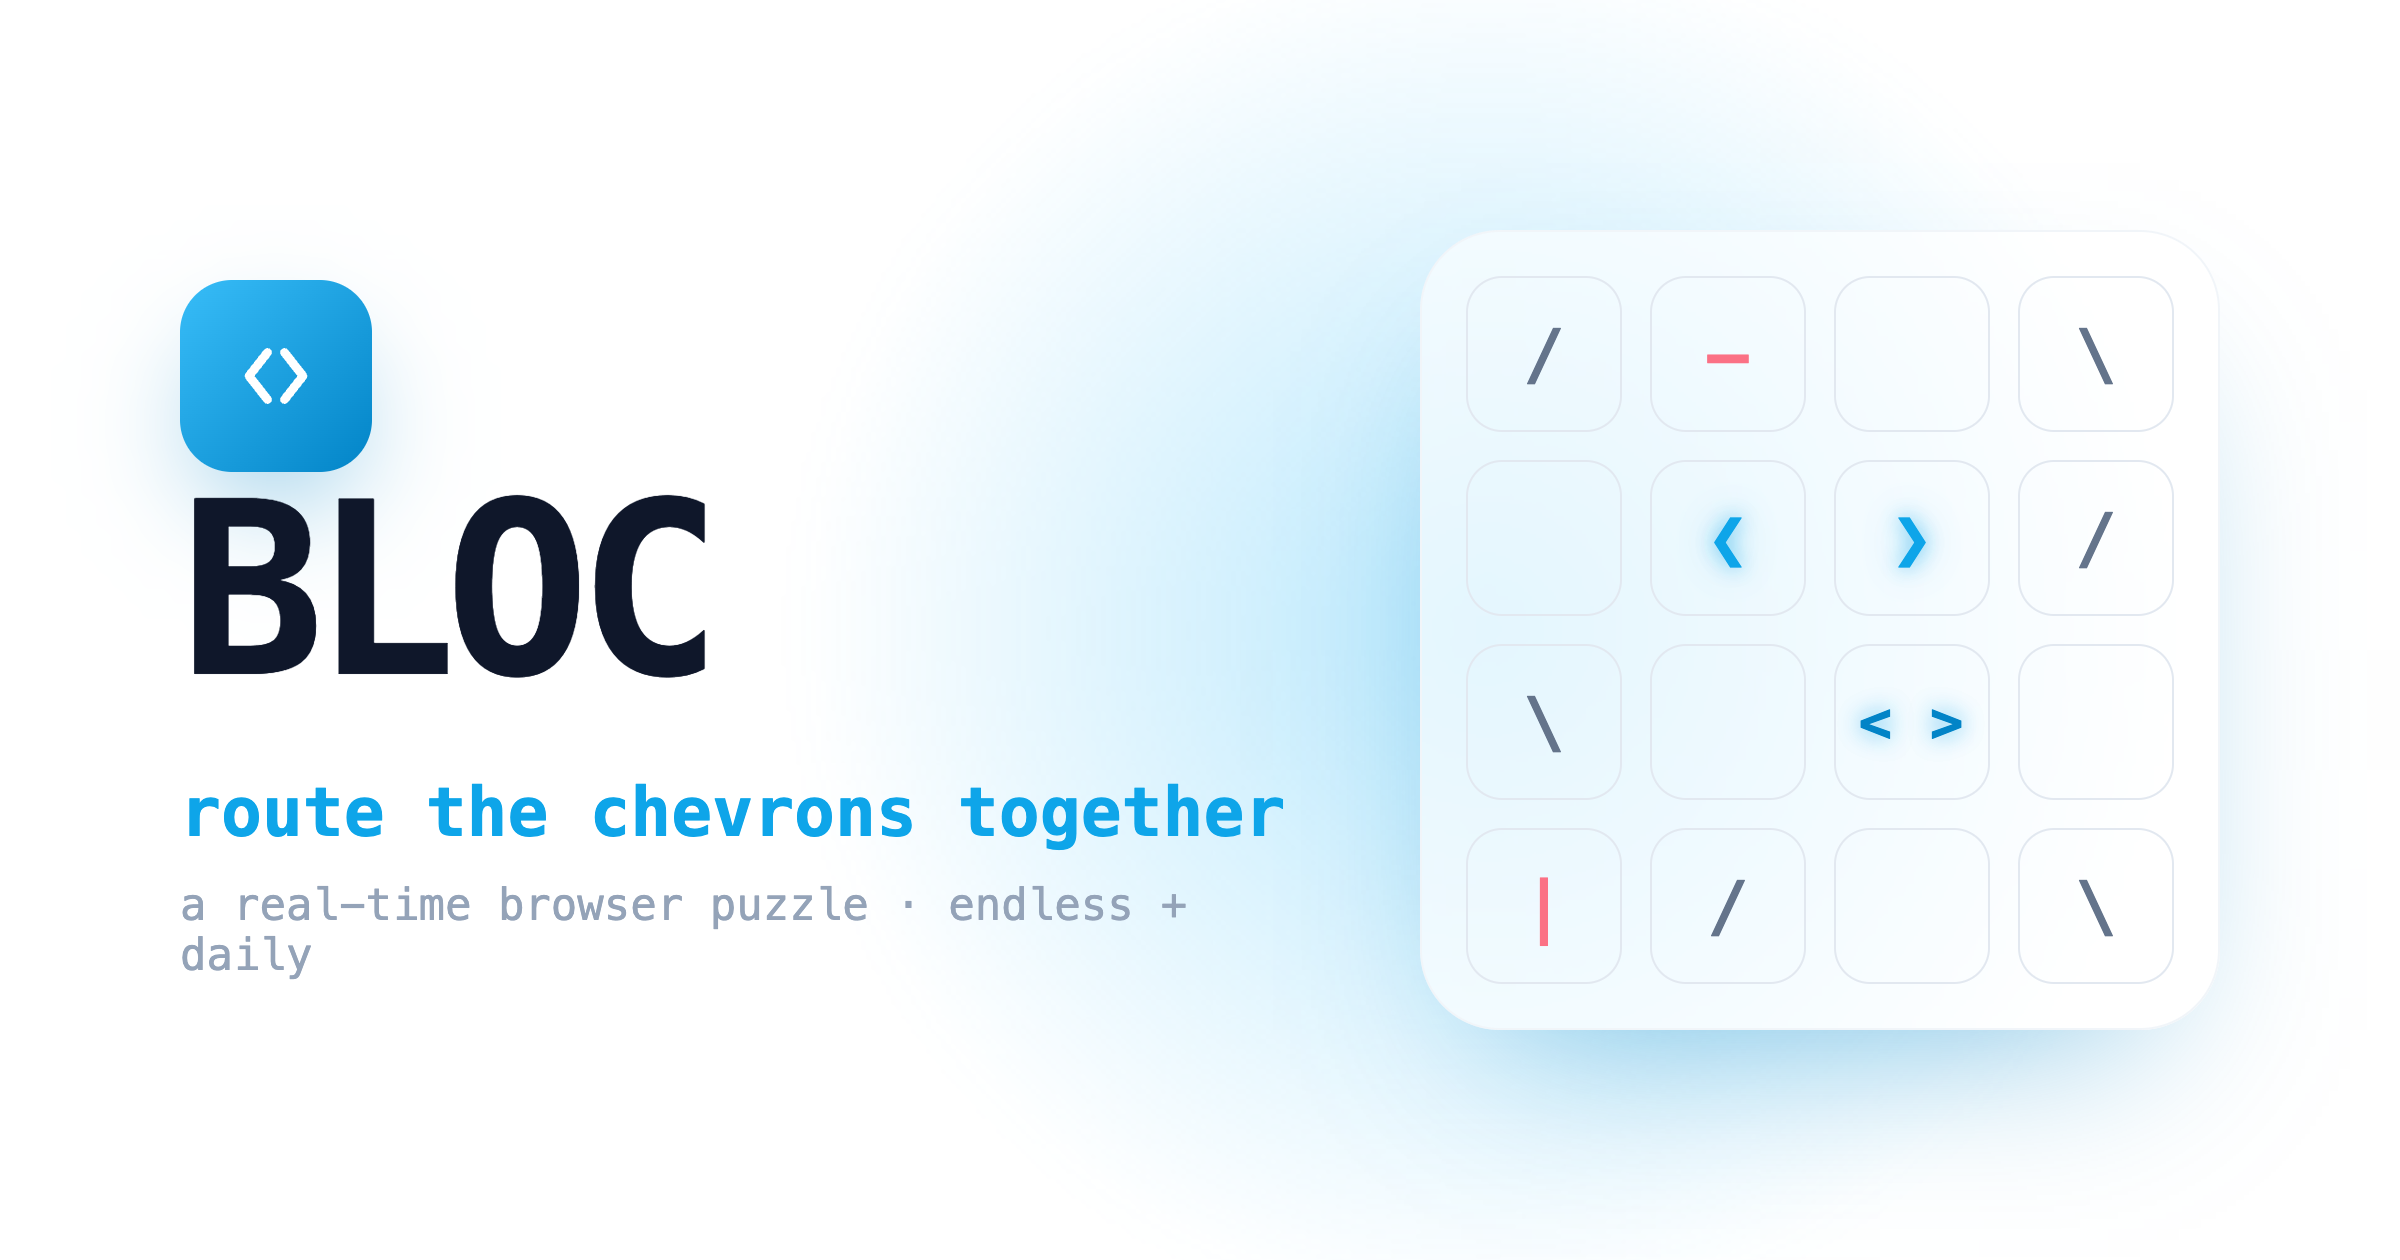
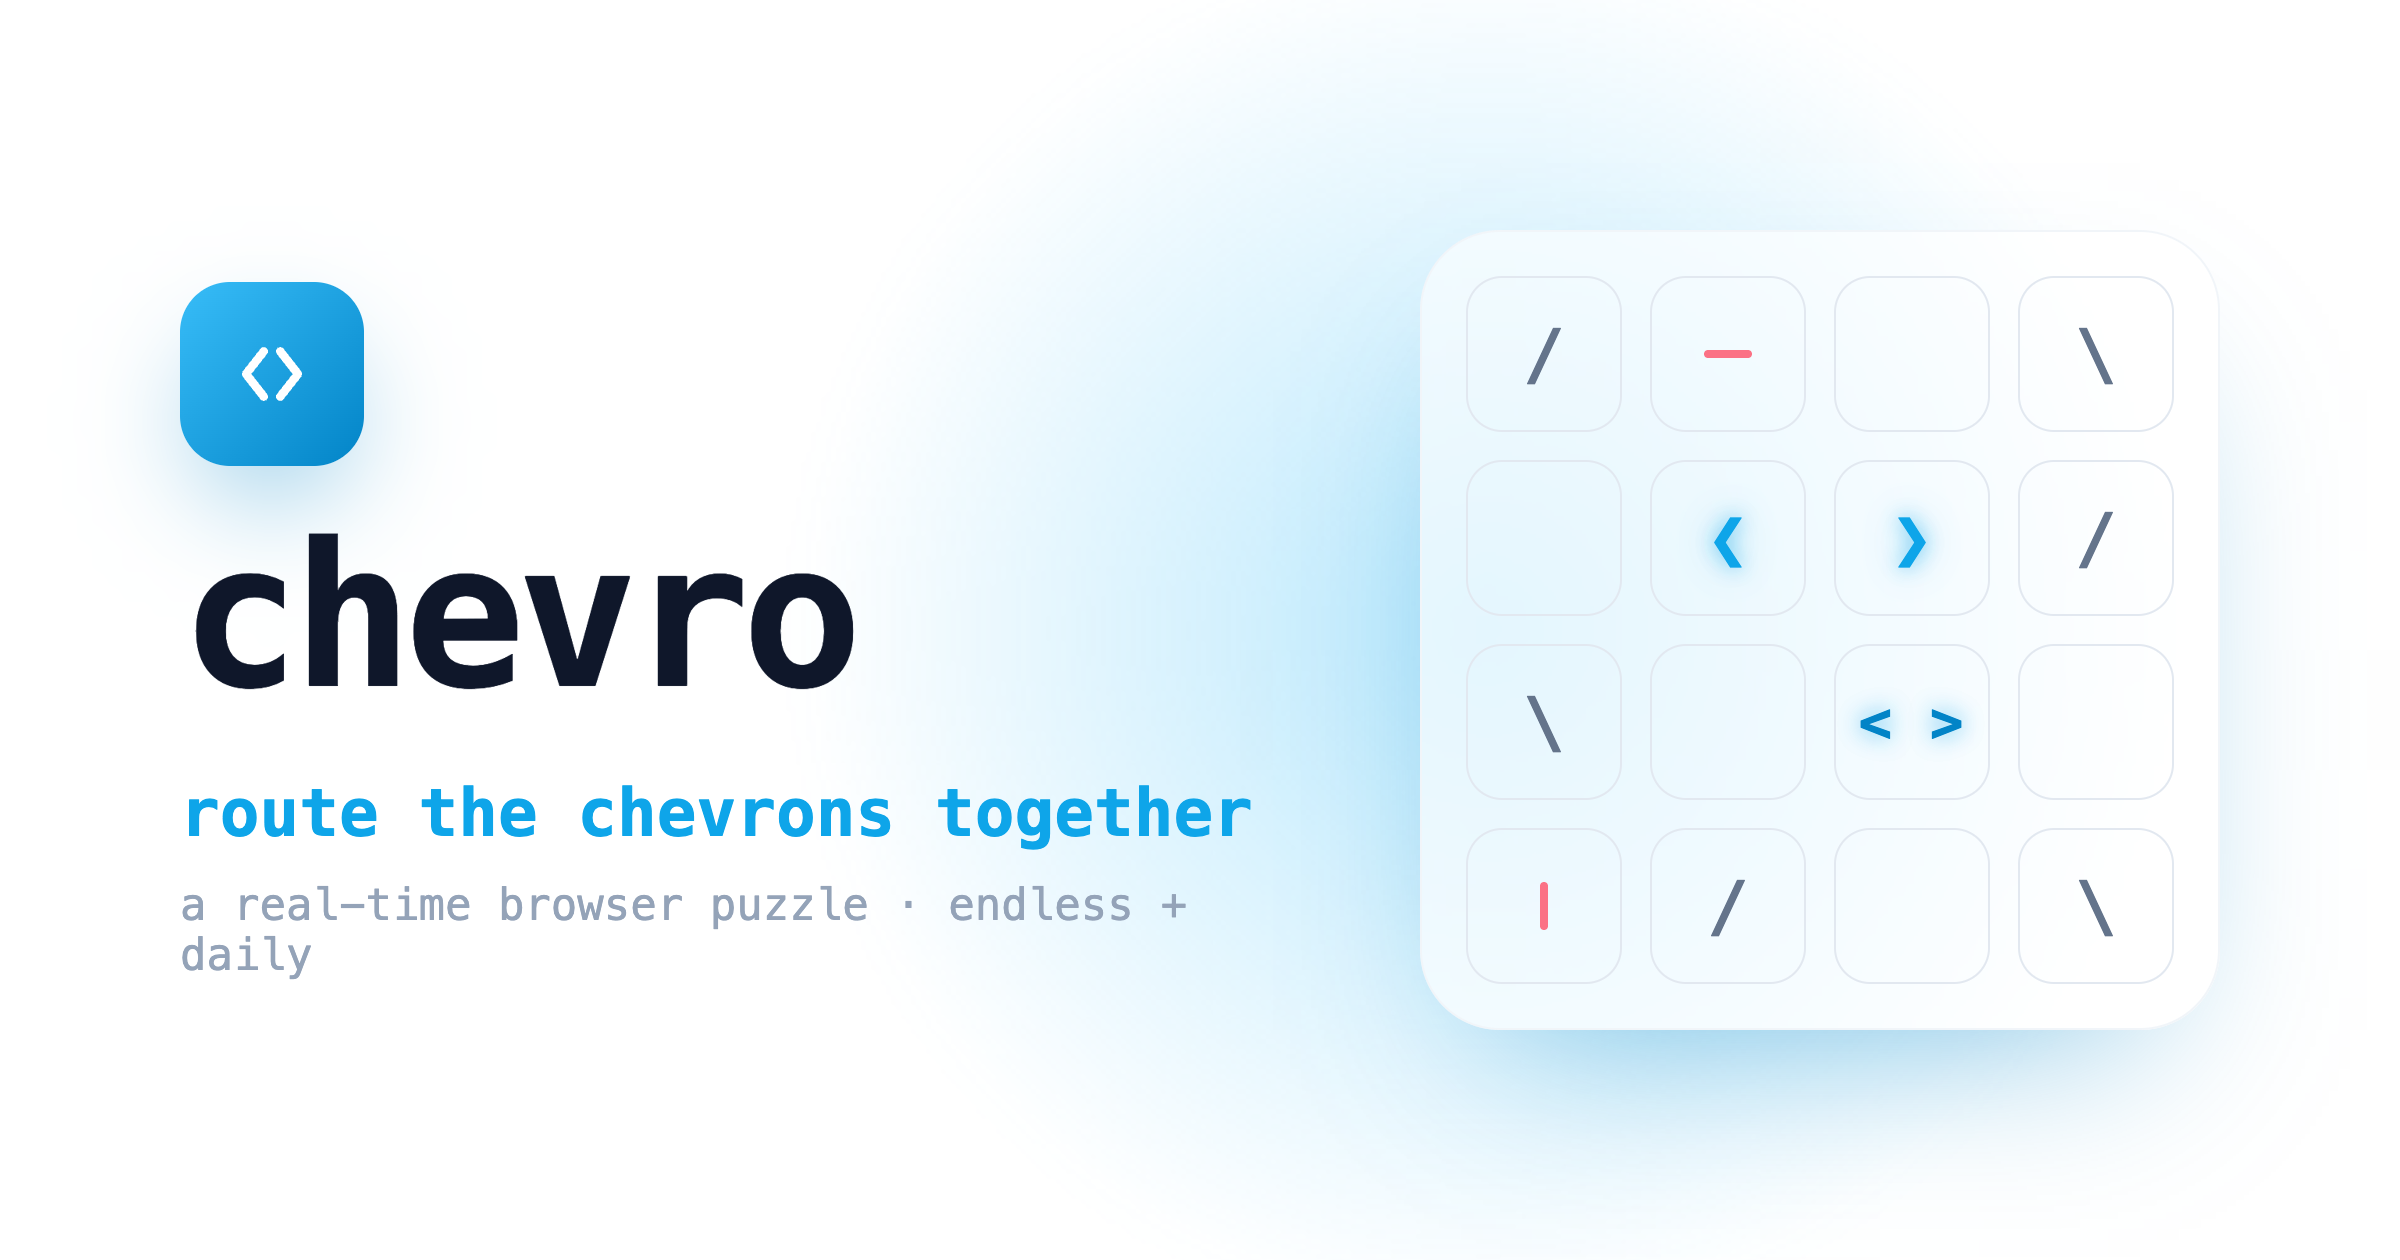
Rebrand to "chevro" and remove em dashes
Rename the game to chevro across the title, meta tags, OG/Twitter cards,
share image, sidebar, and README. Replace all em dashes with plain
punctuation throughout the UI text, metadata, and source comments.

Claude-Session: https://claude.ai/code/session_01GxwatPiUPvHxmAd5K81STC

Changed region(s): [[0.0625, 0.2167, 0.375, 0.5571], [0.0938, 0.619, 0.5312, 0.681]]

diff --git a/src/BlocGame.tsx b/src/BlocGame.tsx
@@ -13,7 +13,7 @@ import {
 import { cn } from "@/lib/utils"
 
 /* ------------------------------------------------------------------ *
- *  BLOC — real-time chevron routing puzzle
+ *  chevro - a real-time chevron routing puzzle
  * ------------------------------------------------------------------ */
 
 type Dir = "UP" | "DOWN" | "LEFT" | "RIGHT"
@@ -80,7 +80,7 @@ const OPPOSITE: Record<Dir, Dir> = {
 }
 const DIR_ANGLE: Record<Dir, number> = { RIGHT: 0, DOWN: 90, LEFT: 180, UP: 270 }
 
-// The chevron entity — one glyph, drawn identically whether it's resting in
+// The chevron entity - one glyph, drawn identically whether it's resting in
 // the emitter or flying. Direction is pure rotation, so it's always the same
 // shape / colour / glow. Left-facing is just the same mark rotated 180°.
 const CHEVRON = "❯" // ❯
@@ -250,7 +250,7 @@ interface WindPuzzle extends Puzzle {
  * Winding-loop generation. The emitter sits at the centre with a straight
  * lead-in either side; a random self-avoiding walk joins the two ends into a
  * single simple loop through the emitter. Grid graphs are bipartite so every
- * such loop has even length — split it at the antipode and the two chevrons
+ * such loop has even length - split it at the antipode and the two chevrons
  * (one each way round the loop) reach that meeting cell on the same tick.
  * Every 90° turn on the loop gets a mirror (correctly oriented here); the
  * caller then scrambles the rotations and scatters decoys off the path.
@@ -415,7 +415,7 @@ function generateFallback(difficulty: number, _seed: number): Puzzle {
 
 /**
  * One tick. A mirror redirects the chevron as it *leaves* the cell it is
- * sitting in — so the player can keep rotating a mirror while the chevron is
+ * sitting in - so the player can keep rotating a mirror while the chevron is
  * inside it, right up until it steps out. Pipes and walls are barriers: the
  * chevron never enters them, it bounces (or is sliced) at the boundary.
  * `angle` accumulates so the arrow can pivot smoothly through turns.
@@ -509,7 +509,7 @@ function save(key: string, value: string) {
   try {
     localStorage.setItem(key, value)
   } catch {
-    /* storage unavailable (private mode, quota) — ignore */
+    /* storage unavailable (private mode, quota) - ignore */
   }
 }
 
@@ -589,7 +589,7 @@ export default function BlocGame() {
   const [grid, setGrid] = useState<Cell[][]>(() => puzzle.grid)
   const [chevrons, setChevrons] = useState<Chevron[]>([])
   const [status, setStatus] = useState<Status>("IDLE")
-  // true only during the final slice of each tick — a block locks just as the
+  // true only during the final slice of each tick - a block locks just as the
   // chevron is about to leave it, so you can rotate it until it's deep inside
   const [committing, setCommitting] = useState(false)
   const [animals, setAnimals] = useState<Animal[]>(() =>
@@ -658,7 +658,7 @@ export default function BlocGame() {
       : null
   }, [mode, levelNo, rebuild])
 
-  /* game loop — emit immediately, then tick */
+  /* game loop - emit immediately, then tick */
   useEffect(() => {
     if (status !== "PLAYING") {
       setCommitting(false)
@@ -823,7 +823,7 @@ export default function BlocGame() {
           </SheetTrigger>
           <SheetContent side="left" className="gap-6">
             <SheetHeader>
-              <SheetTitle className="font-mono tracking-tight">BLOC</SheetTitle>
+              <SheetTitle className="font-mono tracking-tight">chevro</SheetTitle>
               <SheetDescription className="font-mono text-xs">
                 route the chevrons together
               </SheetDescription>
@@ -896,7 +896,7 @@ export default function BlocGame() {
         </button>
       </div>
 
-      {/* board — dissolves on a win so the chevrons fly off into open space */}
+      {/* board - dissolves on a win so the chevrons fly off into open space */}
       <div
         style={{ animation: status === "LOST" ? "bloc-shake 450ms ease-in-out" : "none" }}
         className={cn(
@@ -939,7 +939,7 @@ export default function BlocGame() {
             )}
           </div>
 
-          {/* nuke beams — telegraph glow, then a bright flash on fire */}
+          {/* nuke beams - telegraph glow, then a bright flash on fire */}
           {(status === "PLAYING" || status === "LOST") &&
             animals.map((a) => {
               if (a.phase === "REST") return null
@@ -1029,7 +1029,7 @@ export default function BlocGame() {
             <Ripple x={burst.x} y={burst.y} rgb="16,185,129" base={cellPx * 1.3} />
           )}
 
-          {/* trails — blue comet in play, teal streak flying off on a win */}
+          {/* trails - blue comet in play, teal streak flying off on a win */}
           {(status === "PLAYING" || status === "WON") &&
             chevrons.map((ch) => {
               if (!ch.alive) return null
@@ -1066,7 +1066,7 @@ export default function BlocGame() {
               )
             })}
 
-          {/* chevrons — fly off on a win, linger dim-red at the loss spot */}
+          {/* chevrons - fly off on a win, linger dim-red at the loss spot */}
           {chevrons.map((ch) => {
             const flying = status === "WON" && ch.alive
             const [fdr, fdc] = DELTA[OPPOSITE[ch.dir]]
@@ -1168,11 +1168,11 @@ function CellTile({
   const clickable = cell.type === "EMITTER" || block !== null
   const label =
     cell.type === "EMITTER"
-      ? "Emitter — launch the chevrons"
+      ? "Emitter, launch the chevrons"
       : cell.type === "MIRROR"
-        ? `Mirror ${cell.orient} — rotate`
+        ? `Mirror ${cell.orient}, tap to rotate`
         : cell.type === "PIPE"
-          ? `Pipe ${cell.orient} — rotate`
+          ? `Pipe ${cell.orient}, tap to rotate`
           : "Empty cell"
   return (
     <button
@@ -1204,7 +1204,7 @@ function CellTile({
         }
       />
       {cell.type === "EMITTER" ? (
-        // the two chevrons that will launch — same entity as the flying ones
+        // the two chevrons that will launch - same entity as the flying ones
         <span
           className="relative z-10 flex h-full w-full items-center justify-center gap-[0.15em] transition-opacity duration-300 select-none"
           style={{

diff --git a/index.html b/index.html
@@ -4,12 +4,12 @@
     <meta charset="UTF-8" />
     <meta name="viewport" content="width=device-width, initial-scale=1.0" />
 
-    <title>BLOC — real-time chevron routing puzzle</title>
+    <title>chevro: a real-time chevron routing puzzle</title>
     <meta
       name="description"
-      content="Rotate mirrors and pipes to steer two chevrons into each other — a sleek real-time browser puzzle with endless levels, a daily challenge, and hazards."
+      content="Rotate mirrors and pipes to steer two chevrons into each other. A sleek real-time browser puzzle with endless levels, a daily challenge, and hazards."
     />
-    <meta name="keywords" content="bloc, puzzle game, chevron, routing puzzle, mirror puzzle, browser game, daily puzzle, real-time" />
+    <meta name="keywords" content="chevro, puzzle game, chevron, routing puzzle, mirror puzzle, browser game, daily puzzle, real-time" />
     <meta name="theme-color" content="#0ea5e9" />
     <link rel="canonical" href="https://chevro.iwrl.net/" />
 
@@ -19,26 +19,26 @@
 
     <!-- Open Graph -->
     <meta property="og:type" content="website" />
-    <meta property="og:site_name" content="BLOC" />
-    <meta property="og:title" content="BLOC — real-time chevron routing puzzle" />
+    <meta property="og:site_name" content="chevro" />
+    <meta property="og:title" content="chevro: a real-time chevron routing puzzle" />
     <meta
       property="og:description"
-      content="Rotate mirrors and pipes to steer two chevrons into each other — a sleek real-time browser puzzle with endless levels, a daily challenge, and hazards."
+      content="Rotate mirrors and pipes to steer two chevrons into each other. A sleek real-time browser puzzle with endless levels, a daily challenge, and hazards."
     />
     <meta property="og:url" content="https://chevro.iwrl.net/" />
-    <meta property="og:image" content="https://chevro.iwrl.net/og.png" />
+    <meta property="og:image" content="https://chevro.iwrl.net/og.png?v=2" />
     <meta property="og:image:width" content="1200" />
     <meta property="og:image:height" content="630" />
-    <meta property="og:image:alt" content="BLOC — route the chevrons together" />
+    <meta property="og:image:alt" content="chevro: route the chevrons together" />
 
     <!-- Twitter -->
     <meta name="twitter:card" content="summary_large_image" />
-    <meta name="twitter:title" content="BLOC — real-time chevron routing puzzle" />
+    <meta name="twitter:title" content="chevro: a real-time chevron routing puzzle" />
     <meta
       name="twitter:description"
-      content="Rotate mirrors and pipes to steer two chevrons into each other — a sleek real-time browser puzzle."
+      content="Rotate mirrors and pipes to steer two chevrons into each other. A sleek real-time browser puzzle."
     />
-    <meta name="twitter:image" content="https://chevro.iwrl.net/og.png" />
+    <meta name="twitter:image" content="https://chevro.iwrl.net/og.png?v=2" />
   </head>
   <body>
     <div id="root"></div>

diff --git a/src/index.css b/src/index.css
@@ -51,7 +51,7 @@ body {
   min-height: 100svh;
 }
 
-/* win burst — an expanding ring at the collision point */
+/* win burst - an expanding ring at the collision point */
 @keyframes bloc-burst {
   0% {
     transform: translate(-50%, -50%) scale(0.2);
@@ -63,7 +63,7 @@ body {
   }
 }
 
-/* idle emitter cue — a slow breathing glow to say "click me" */
+/* idle emitter cue - a slow breathing glow to say "click me" */
 @keyframes bloc-breathe {
   0%,
   100% {
@@ -113,7 +113,7 @@ body {
   }
 }
 
-/* nuke telegraph — the threatened row/column pulses a warning */
+/* nuke telegraph - the threatened row/column pulses a warning */
 @keyframes bloc-telegraph {
   0%,
   100% {
@@ -124,7 +124,7 @@ body {
   }
 }
 
-/* nuke fire — a bright flash that fades */
+/* nuke fire - a bright flash that fades */
 @keyframes bloc-beam {
   0% {
     opacity: 1;

diff --git a/README.md b/README.md
@@ -1,11 +1,11 @@
-# BLOC
+# chevro
 
-A real-time chevron-routing puzzle. Two chevrons launch from a central emitter; rotate the mirror (`/ \`) and pipe (`| -`) blocks in real time to steer them into each other.
+A real-time chevron routing puzzle. Two chevrons launch from a central emitter; rotate the mirror (`/ \`) and pipe (`| -`) blocks in real time to steer them into each other.
 
-- **Route to collide** — bend chevrons with mirrors, bounce/avoid pipes, make the two meet.
-- **Rotate in flight** — blocks only lock the instant a chevron is committing to them.
-- **Endless + Daily** — levels scale from 5×5 to 10×10; progress saves to your browser.
-- **Hostile animals** (level 10+) — emoji predators prowl the edges, telegraph a row/column, then nuke it. Don't be on that line when the beam fires.
+- **Route to collide**: bend chevrons with mirrors, bounce off pipes, make the two meet.
+- **Rotate in flight**: blocks only lock the instant a chevron is committing to them.
+- **Endless + Daily**: levels scale from 5x5 to 10x10, and progress saves to your browser.
+- **Hostile animals** (level 10+): emoji predators prowl the edges, telegraph a row or column, then nuke it. Don't be on that line when the beam fires.
 
 Built with Vite + React + Tailwind. The grid tiles are a `pixel-canvas` web component.
 